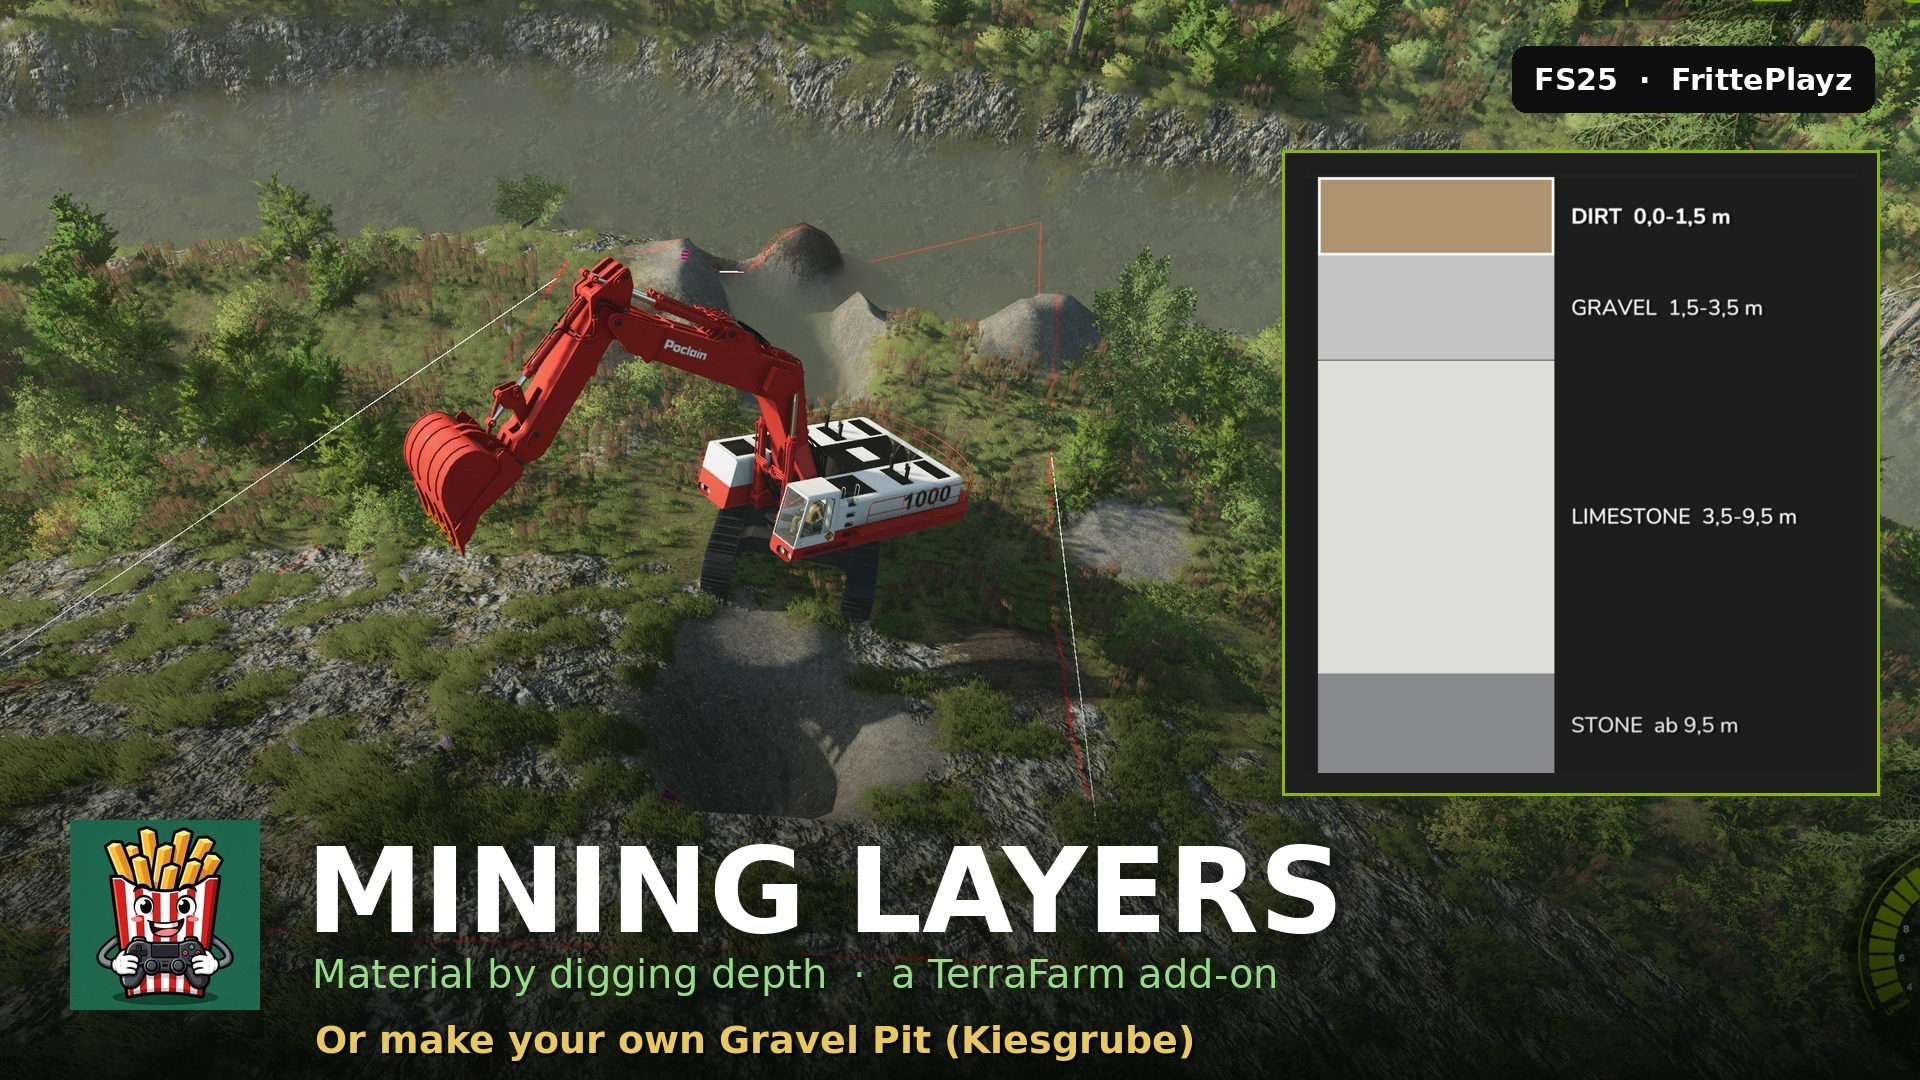
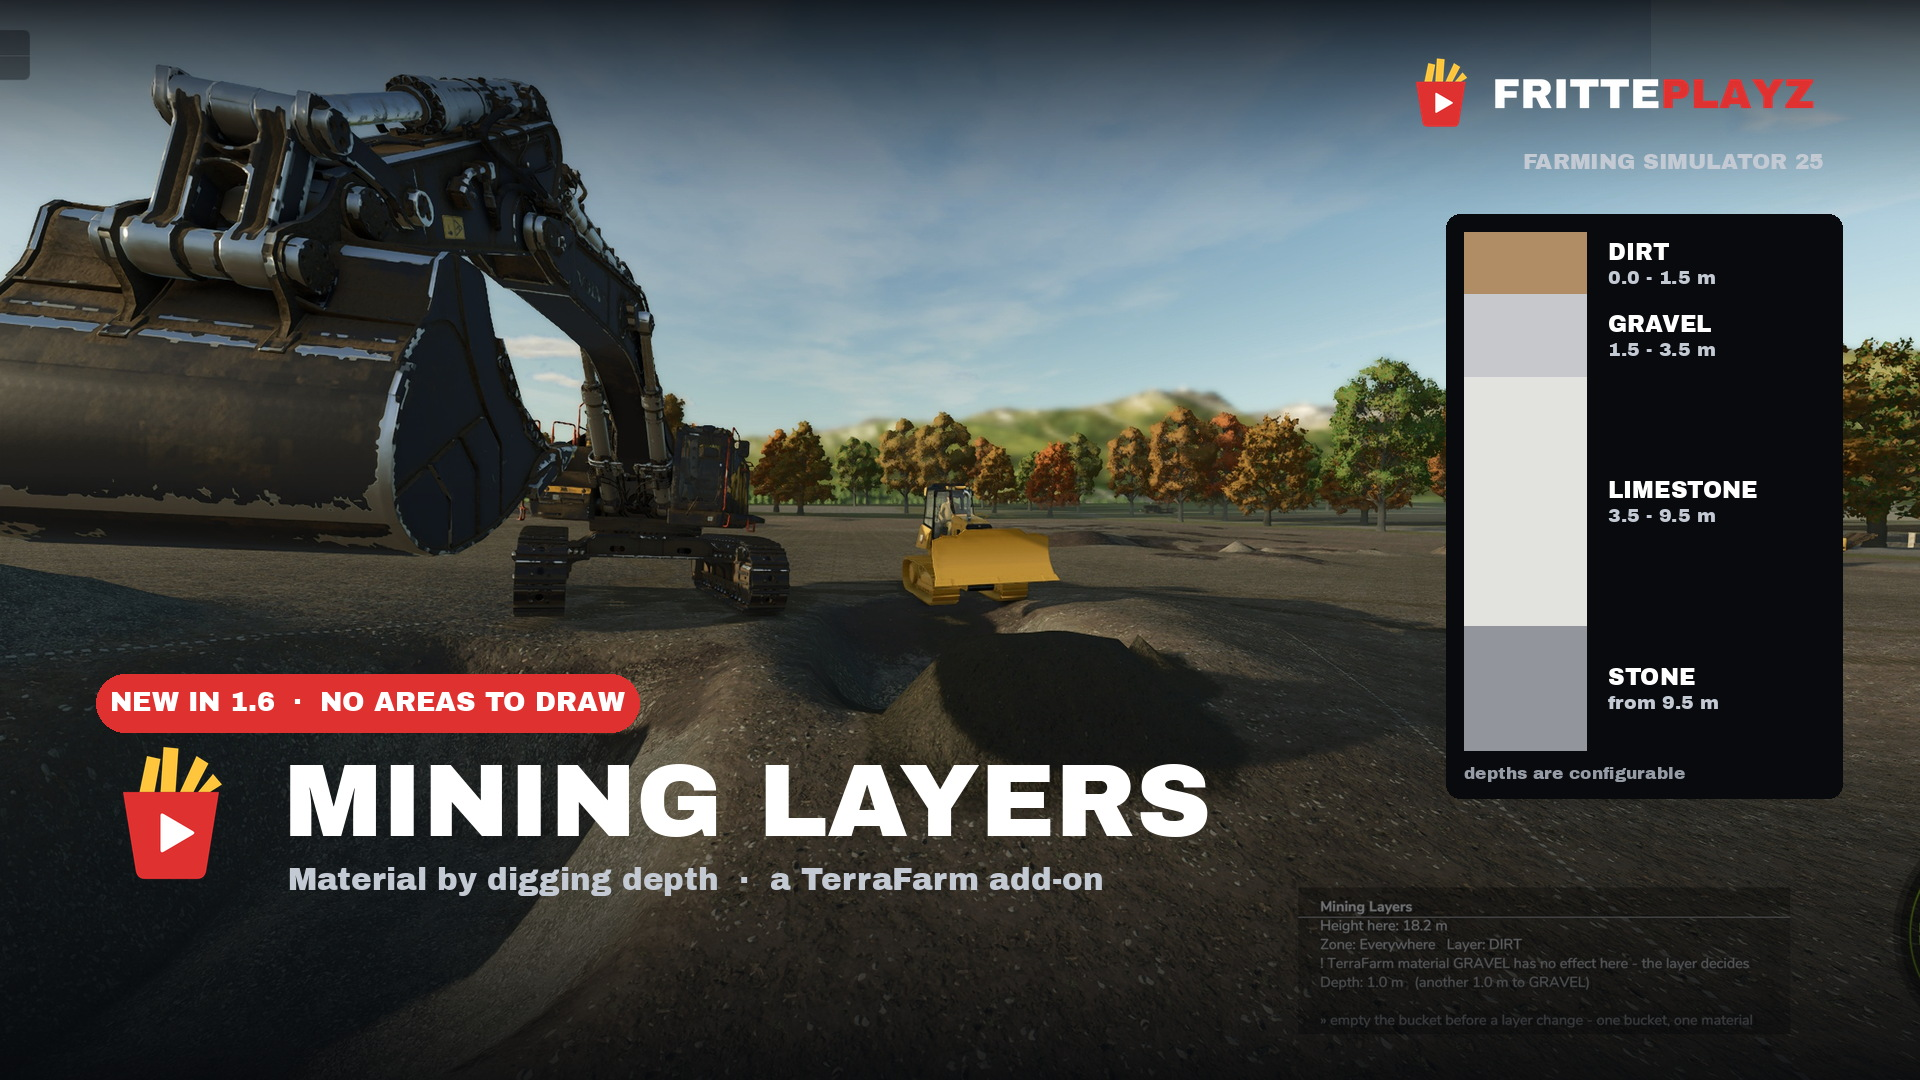
docs: new header with layer legend and current brand mark
The 1.6 header now carries the headline feature (digging without a drawn
area) and brings back the layer legend the old header had — DIRT, GRAVEL,
LIMESTONE, STONE with their depths, plus a note that those are configurable.
Legend and caption are English throughout; the old one mixed English and
German. Brand mark updated from the old mascot to the current FrittePlayz
logo. Alt texts on all five READMEs now describe what the image actually
shows.

diff --git a/README.fr.md b/README.fr.md
@@ -4,7 +4,7 @@
 [![Latest release](https://img.shields.io/github/v/release/FrittePlayz/FS25_MiningLayers?style=for-the-badge&color=2d8a4e)](https://github.com/FrittePlayz/FS25_MiningLayers/releases)
 [![Langues](https://img.shields.io/badge/en--jeu-FR%20·%20EN%20·%20DE%20·%20PL%20·%20IT-2d8a4e?style=for-the-badge)](#)
 
-![Mining Layers — le matériau dépend de la profondeur, ou crée ta propre gravière](docs/images/00_header.jpg)
+![Mining Layers — le matériau dépend de la profondeur, un add-on TerraFarm](docs/images/00_header.jpg)
 
 **Du vrai gameplay minier pour Farming Simulator 25 — creuse à travers des couches géologiques, ou crée ta propre gravière dans FS25.**
 Le matériau dans ton godet dépend de la profondeur, pas d'un menu déroulant : terre végétale d'abord, puis gravier, puis le filon, socle rocheux en bas. Depuis la 1.4.0 le filon est sélectionnable — mine de charbon, gravière ou carrière de calcaire, sur n'importe quelle carte, sans édition de carte. **Le mod et son manuel en jeu existent intégralement en français** (traduction automatique — corrections bienvenues !).

diff --git a/README.de.md b/README.de.md
@@ -5,7 +5,7 @@
 [![Sprachen](https://img.shields.io/badge/in--game-DE%20·%20EN%20·%20FR%20·%20PL%20·%20IT-2d8a4e?style=for-the-badge)](#)
 [![Buy me fries](https://img.shields.io/badge/Buy%20me%20fries-FFDD00?style=for-the-badge&logo=buymeacoffee&logoColor=black)](https://buymeacoffee.com/fritteplayz)
 
-![Mining Layers — Material nach Grabtiefe, oder bau deine eigene Kiesgrube](docs/images/00_header.jpg)
+![Mining Layers — Material nach Grabtiefe, ein TerraFarm-Add-on](docs/images/00_header.jpg)
 
 **Echtes Bergbau-Gameplay für den Landwirtschafts-Simulator 25 — grab dich durch geologische Schichten, oder bau deine eigene Kiesgrube im LS25.**
 Das Material bestimmt die Grabtiefe, nicht die Handauswahl: erst Mutterboden, dann Kies, dann Paydirt, dann Fels. Seit 1.4.0 ist die Nutzschicht wählbar — Kohlegrube, Kiesgrube oder Kalksteinbruch, auf jeder Karte. Eigene Geologie pro Grube, Halden mit Gedächtnis und ein Ingame-Editor. Läuft auf **jeder Karte** — ohne Map-Bearbeitung. **Mod und Ingame-Handbuch gibt es vollständig auf Deutsch, Englisch, Französisch, Polnisch und Italienisch.**

diff --git a/README.it.md b/README.it.md
@@ -4,7 +4,7 @@
 [![Latest release](https://img.shields.io/github/v/release/FrittePlayz/FS25_MiningLayers?style=for-the-badge&color=2d8a4e)](https://github.com/FrittePlayz/FS25_MiningLayers/releases)
 [![Lingue](https://img.shields.io/badge/in--gioco-IT%20·%20EN%20·%20DE%20·%20FR%20·%20PL-2d8a4e?style=for-the-badge)](#)
 
-![Mining Layers — il materiale dipende dalla profondità, o crea la tua cava di ghiaia](docs/images/00_header.jpg)
+![Mining Layers — il materiale dipende dalla profondità di scavo, un add-on per TerraFarm](docs/images/00_header.jpg)
 
 **Vero gameplay minerario per Farming Simulator 25 — scava attraverso strati geologici, o crea la tua cava di ghiaia in FS25.**
 Il materiale nella benna dipende da quanto scavi in profondità, non da un menu a tendina: prima il terreno vegetale, poi la ghiaia, poi il filone, roccia madre sul fondo. Dalla 1.4.0 il filone è selezionabile — miniera di carbone, cava di ghiaia o cava di calcare, su qualsiasi mappa, senza modificarla. **La mod e il suo manuale in gioco esistono per intero in italiano**, tradotti da **marcols13**.

diff --git a/README.pl.md b/README.pl.md
@@ -4,7 +4,7 @@
 [![Latest release](https://img.shields.io/github/v/release/FrittePlayz/FS25_MiningLayers?style=for-the-badge&color=2d8a4e)](https://github.com/FrittePlayz/FS25_MiningLayers/releases)
 [![Języki](https://img.shields.io/badge/w--grze-PL%20·%20EN%20·%20DE%20·%20FR%20·%20IT-2d8a4e?style=for-the-badge)](#)
 
-![Mining Layers — materiał zależy od głębokości kopania, albo zbuduj własną żwirownię](docs/images/00_header.jpg)
+![Mining Layers — materiał zależy od głębokości kopania, dodatek do TerraFarm](docs/images/00_header.jpg)
 
 **Prawdziwy górniczy gameplay dla Farming Simulator 25 — przekop się przez warstwy geologiczne albo zbuduj własną żwirownię w FS25.**
 Materiał w łyżce zależy od głębokości kopania, nie od ręcznego wyboru: najpierw humus, potem żwir, potem pokład, na dole lita skała. Od wersji 1.4.0 pokład jest wybieralny — kopalnia węgla, żwirownia albo kamieniołom wapienia, na każdej mapie, bez edycji mapy. **Mod i podręcznik w grze są w całości po polsku** (tłumaczenie maszynowe — poprawki mile widziane!).

diff --git a/README.md b/README.md
@@ -5,7 +5,7 @@
 [![Languages](https://img.shields.io/badge/in--game-EN%20·%20DE%20·%20FR%20·%20PL%20·%20IT-2d8a4e?style=for-the-badge)](#)
 [![Buy me fries](https://img.shields.io/badge/Buy%20me%20fries-FFDD00?style=for-the-badge&logo=buymeacoffee&logoColor=black)](https://buymeacoffee.com/fritteplayz)
 
-![Mining Layers — material by digging depth, or make your own gravel pit](docs/images/00_header.jpg)
+![Mining Layers — material by digging depth, a TerraFarm add-on](docs/images/00_header.jpg)
 
 **Real mining gameplay for Farming Simulator 25 — dig through geological layers, or make your own gravel pit in FS25.**
 Material is determined by digging depth, not by hand selection: topsoil first, then gravel, then paydirt, then rock. Since 1.4.0 the pay seam is selectable — build a coal mine, a gravel pit or a limestone quarry on any map. Per-pit geology, spoil piles that remember what you dumped, and an in-game editor. Works on **any map** — no map editing required. **The mod and its in-game manual are fully available in English, German, French, Polish and Italian.**

diff --git a/CHANGELOG.md b/CHANGELOG.md
@@ -4,6 +4,12 @@ All notable changes to Mining Layers. Newest first.
 
 ## [Unreleased]
 
+### Changed
+- **New header image on all five mod pages.** Shows the 1.6 headline feature — digging without a
+  drawn area — with the in-game display as proof. The layer legend is back, now in English with a
+  note that the depths are configurable; the old header mixed English and German. Brand mark
+  updated to the current FrittePlayz logo.
+
 ## [1.5.0.0] — 2026-08-12
 
 ### Added
